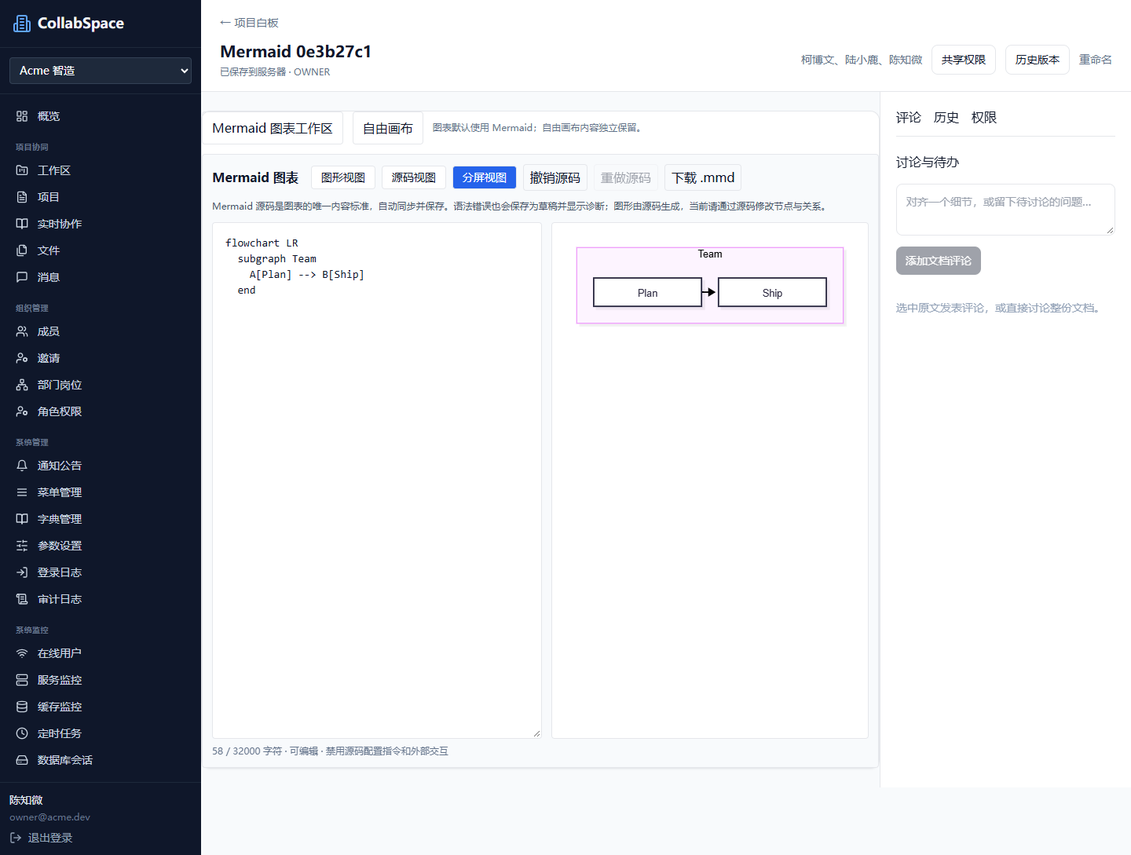
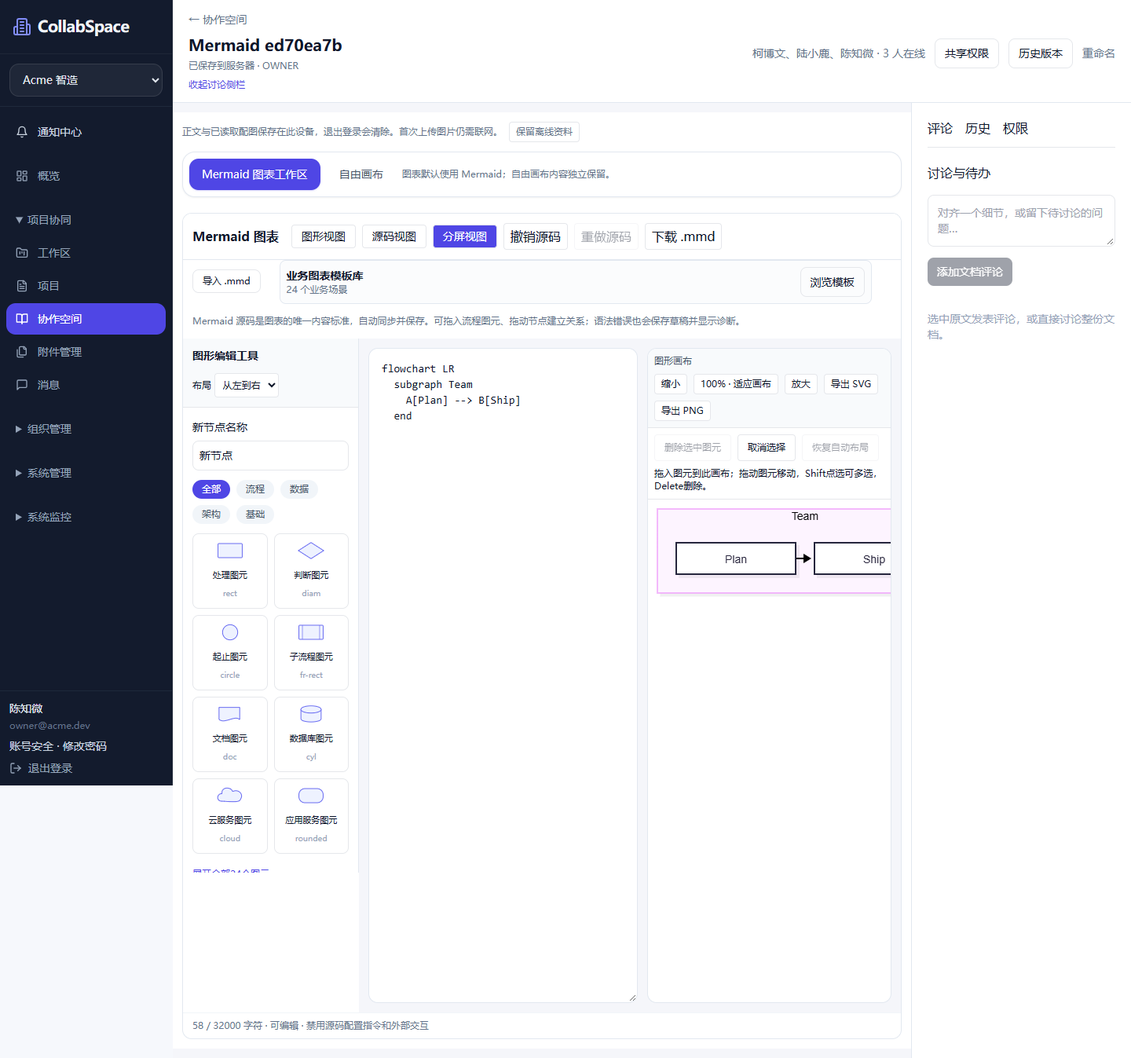
fix: guard complex Mermaid positioning and recover automatic layout

diff --git a/apps/web/src/components/boards/MermaidPreview.tsx b/apps/web/src/components/boards/MermaidPreview.tsx
@@ -2,7 +2,7 @@
 import {exportDiagram} from '@/lib/diagram-export';
 import {flowSvgLayout,type CanvasNode} from '@/lib/mermaid-svg-layout';
 import {addFlowNode,deleteFlowNodes,isFlowSource} from '@/lib/mermaid-edit';
-import {positionNode} from '@/lib/mermaid-position';
+import {positionNode,removeNodePositions,nodePositions} from '@/lib/mermaid-position';
 import type {DiagramShape} from '@/lib/diagram-catalog';
 import {useEffect,useState,useRef} from "react";
 let renderQueue: Promise<unknown> = Promise.resolve();
@@ -13,14 +13,14 @@ export function MermaidPreview({source,writable=false,commit,selectedIds=[],onSe
  const [canvas,setCanvas]=useState<{nodes:CanvasNode[];width:number;height:number}>({nodes:[],width:1000,height:800}),[actionError,setActionError]=useState('');
  const viewport=useRef<HTMLDivElement>(null),drag=useRef<{id:string;x:number;y:number;px:number;py:number;source:string;left:number;top:number}>();
  const interactive=!!commit&&(!source.trim()||isFlowSource(source));
- const mutate=(before:string,next:string)=>{try{if(!writable)throw Error('当前文档只读。');commit?.(before,next);setActionError('');}catch(e){setActionError((e as Error).message);}};
+ const mutate=(before:string,next:string)=>{try{if(!writable)throw Error('当前文档只读。');commit?.(before,next);setActionError('');return true;}catch(e){setActionError((e as Error).message);return false;}};
  const remove=()=>{try{const next=deleteFlowNodes(source,selectedIds);mutate(source,next);onSelect?.([]);}catch(e){setActionError((e as Error).message);}};
   const [html, setHtml] = useState("");
   const [error, setError] = useState("");
   const [rendered,setRendered]=useState<{source:string;svg:string}|null>(null),[zoom,setZoom]=useState(100),[exportError,setExportError]=useState(""),[exporting,setExporting]=useState(false);
   useEffect(() => {
     let alive = true;
-    setHtml("");setRendered(null);setExportError("");
+    setHtml("");setRendered(null);setExportError("");setCanvas(c=>({...c,nodes:[]}));
     setError("");
     const timer = setTimeout(() => {
       renderQueue = renderQueue.catch(() => {}).then(async () => {
@@ -52,13 +52,13 @@ export function MermaidPreview({source,writable=false,commit,selectedIds=[],onSe
   }, [source]);
   return <div className="min-w-0 flex-1 overflow-hidden rounded-xl border border-slate-200 bg-white" aria-label="Mermaid 图形预览">
     <div className="flex flex-wrap items-center justify-between gap-2 border-b bg-slate-50 p-2 text-xs"><span className="font-medium text-slate-600">{interactive?'图形画布':'画布预览'}</span><div className="flex flex-wrap gap-2"><button className="rounded border bg-white px-2 py-1" disabled={zoom<=50} onClick={()=>setZoom(z=>Math.max(50,z-25))}>缩小</button><button className="rounded border bg-white px-2 py-1" onClick={()=>setZoom(Math.max(25,Math.min(100,Math.floor((viewport.current?.clientWidth||canvas.width)/canvas.width*100))))}>{zoom}% · 适应画布</button><button className="rounded border bg-white px-2 py-1" disabled={zoom>=200} onClick={()=>setZoom(z=>Math.min(200,z+25))}>放大</button>{(['svg','png'] as const).map(format=><button key={format} disabled={!rendered||rendered.source!==source||exporting} className="rounded border bg-white px-2 py-1 disabled:opacity-40" onClick={async()=>{if(!rendered||rendered.source!==source)return;setExporting(true);setExportError('');try{await exportDiagram(rendered.svg,format)}catch(e){setExportError((e as Error).message)}finally{setExporting(false)}}}>导出 {format.toUpperCase()}</button>)}</div></div>
-    {interactive&&<div className="flex flex-wrap gap-2 border-b p-2 text-xs"><button type="button" disabled={!writable||!selectedIds.length} className="rounded border px-3 py-2 disabled:opacity-40" onClick={remove}>删除选中图元</button><button type="button" className="rounded border px-3 py-2" onClick={()=>onSelect?.([])}>取消选择</button><span>拖入图元到此画布；拖动图元移动，Shift点选可多选，Delete删除。</span></div>}
+    {interactive&&<div className="flex flex-wrap gap-2 border-b p-2 text-xs"><button type="button" disabled={!writable||!selectedIds.length} className="rounded border px-3 py-2 disabled:opacity-40" onClick={remove}>删除选中图元</button><button type="button" className="rounded border px-3 py-2" onClick={()=>onSelect?.([])}>取消选择</button><button type="button" disabled={!writable||!source.includes('%% collab-position ')} className="rounded border px-3 py-2 disabled:opacity-40" onClick={()=>mutate(source,removeNodePositions(source,new Set(Object.keys(nodePositions(source)))))}>恢复自动布局</button><span>拖入图元到此画布；拖动图元移动，Shift点选可多选，Delete删除。</span></div>}
     {actionError&&<p role="alert" className="p-2 text-sm text-red-700">{actionError}</p>}
     {exportError&&<p role="alert" className="p-2 text-sm text-red-700">{exportError}</p>}
     {error ? <pre role="alert" className="whitespace-pre-wrap break-words p-4 text-sm text-red-700">{error}</pre> :
       ((html && rendered?.source===source)||(interactive&&!source.trim())) ? <div ref={viewport} className="h-[640px] overflow-auto"><div aria-label="Mermaid 图形画布" tabIndex={interactive?0:undefined} className="relative outline-none" style={interactive?{width:canvas.width*zoom/100,height:canvas.height*zoom/100}:{width:`${zoom}%`,minWidth:300,height:640*zoom/100}} onKeyDown={e=>{if(interactive&&writable&&selectedIds.length&&(e.key==='Delete'||e.key==='Backspace')&&e.target===e.currentTarget){e.preventDefault();remove();}}} onDragOver={e=>{if(interactive&&writable)e.preventDefault();}} onDrop={e=>{e.preventDefault();if(!interactive||!writable)return;const kind=e.dataTransfer.getData('application/x-collab-mermaid');if(!kind)return;const box=e.currentTarget.getBoundingClientRect(),id='N'+crypto.randomUUID().replaceAll('-','').slice(0,12);try{const added=addFlowNode(source,e.dataTransfer.getData('application/x-collab-label')||'新节点',kind as DiagramShape,id);mutate(source,positionNode(added,id,Math.max(20,(e.clientX-box.left)*100/zoom),Math.max(20,(e.clientY-box.top)*100/zoom)));onSelect?.([id]);}catch(err){setActionError((err as Error).message);}}}>
        <iframe title="Mermaid 图表" sandbox="" referrerPolicy="no-referrer" srcDoc={html} style={{width:'100%',height:'100%',pointerEvents:interactive?'none':undefined}} className="border-0" />
-       {interactive&&canvas.nodes.map(n=><button key={n.id} type="button" aria-label={'画布图元 '+n.label} aria-pressed={selectedIds.includes(n.id)} disabled={!writable} className={'absolute -translate-x-1/2 -translate-y-1/2 rounded border-2 bg-transparent focus-visible:outline-indigo-500 '+(selectedIds.includes(n.id)?'border-indigo-500':'border-transparent hover:border-indigo-300')} style={{left:n.x*zoom/100,top:n.y*zoom/100,width:n.width*zoom/100,height:n.height*zoom/100,touchAction:'none',cursor:'move'}} onClick={e=>{if(e.shiftKey)onSelect?.(selectedIds.includes(n.id)?selectedIds.filter(id=>id!==n.id):[...selectedIds,n.id]);else onSelect?.([n.id]);}} onKeyDown={e=>{if(writable&&(e.key==='Delete'||e.key==='Backspace')){e.preventDefault();e.stopPropagation();try{mutate(source,deleteFlowNodes(source,selectedIds.includes(n.id)?selectedIds:[n.id]));onSelect?.([]);}catch(err){setActionError((err as Error).message);}}}} onPointerDown={e=>{if(!writable)return;if(!e.shiftKey&&!selectedIds.includes(n.id))onSelect?.([n.id]);const box=e.currentTarget.parentElement!.getBoundingClientRect();drag.current={id:n.id,x:n.x,y:n.y,px:e.clientX,py:e.clientY,source,left:box.left,top:box.top};e.currentTarget.setPointerCapture(e.pointerId);}} onPointerMove={e=>{const d=drag.current;if(!d||d.id!==n.id)return;e.currentTarget.style.left=`${d.x*zoom/100+e.clientX-d.px}px`;e.currentTarget.style.top=`${d.y*zoom/100+e.clientY-d.py}px`;}} onPointerCancel={()=>{drag.current=undefined;}} onPointerUp={e=>{const d=drag.current;drag.current=undefined;if(!d||Math.hypot(e.clientX-d.px,e.clientY-d.py)<4)return;try{mutate(d.source,positionNode(d.source,d.id,Math.max(20,d.x+(e.clientX-d.px)*100/zoom),Math.max(20,d.y+(e.clientY-d.py)*100/zoom)));}catch(err){setActionError((err as Error).message);}}}/>)}
+       {interactive&&canvas.nodes.map(n=><button key={n.id} type="button" aria-label={'画布图元 '+n.label} aria-pressed={selectedIds.includes(n.id)} disabled={!writable} className={'absolute -translate-x-1/2 -translate-y-1/2 rounded border-2 bg-transparent focus-visible:outline-indigo-500 '+(selectedIds.includes(n.id)?'border-indigo-500':'border-transparent hover:border-indigo-300')} style={{left:n.x*zoom/100,top:n.y*zoom/100,width:n.width*zoom/100,height:n.height*zoom/100,touchAction:'none',cursor:'move'}} onClick={e=>{if(e.shiftKey)onSelect?.(selectedIds.includes(n.id)?selectedIds.filter(id=>id!==n.id):[...selectedIds,n.id]);else onSelect?.([n.id]);}} onKeyDown={e=>{if(writable&&(e.key==='Delete'||e.key==='Backspace')){e.preventDefault();e.stopPropagation();try{mutate(source,deleteFlowNodes(source,selectedIds.includes(n.id)?selectedIds:[n.id]));onSelect?.([]);}catch(err){setActionError((err as Error).message);}}}} onPointerDown={e=>{if(!writable)return;if(!e.shiftKey&&!selectedIds.includes(n.id))onSelect?.([n.id]);const box=e.currentTarget.parentElement!.getBoundingClientRect();drag.current={id:n.id,x:n.x,y:n.y,px:e.clientX,py:e.clientY,source,left:box.left,top:box.top};e.currentTarget.setPointerCapture(e.pointerId);}} onPointerMove={e=>{const d=drag.current;if(!d||d.id!==n.id)return;e.currentTarget.style.left=`${d.x*zoom/100+e.clientX-d.px}px`;e.currentTarget.style.top=`${d.y*zoom/100+e.clientY-d.py}px`;}} onPointerCancel={e=>{drag.current=undefined;e.currentTarget.style.left=`${n.x*zoom/100}px`;e.currentTarget.style.top=`${n.y*zoom/100}px`;}} onPointerUp={e=>{const d=drag.current;drag.current=undefined;if(!d||Math.hypot(e.clientX-d.px,e.clientY-d.py)<4)return;try{mutate(d.source,positionNode(d.source,d.id,Math.max(20,d.x+(e.clientX-d.px)*100/zoom),Math.max(20,d.y+(e.clientY-d.py)*100/zoom)));}catch(err){e.currentTarget.style.left=`${n.x*zoom/100}px`;e.currentTarget.style.top=`${n.y*zoom/100}px`;setActionError((err as Error).message);}}}/>)}
       </div></div> :
       <p className="p-6 text-sm text-slate-500">{source.trim() ? "正在渲染 Mermaid…" : "输入 Mermaid 源码或选择模板，即可生成图表。"}</p>}
   </div>;

diff --git a/apps/web/src/components/boards/MermaidComposer.tsx b/apps/web/src/components/boards/MermaidComposer.tsx
@@ -19,12 +19,12 @@ export default function MermaidComposer({source,writable,commit,selectedId,onSel
    <div className="my-3 grid gap-2 grid-cols-4 lg:grid-cols-2">{diagramShapes.filter(s=>mind?s.key==='process':(group==='全部'||s.group===group)&&(expanded||['process','decision','start','subprocess','document','database','cloud','service'].includes(s.key))).map(s=><button key={s.key} aria-label={mind?'子主题':s.name+'图元'} disabled={!writable} draggable={writable} onDragStart={e=>{e.dataTransfer.setData('application/x-collab-mermaid',s.key);e.dataTransfer.setData('application/x-collab-label',label);}} onClick={()=>add(s.key)} className="rounded-lg border px-2 py-3 text-sm transition hover:border-indigo-300 hover:bg-indigo-50 disabled:opacity-40"><DiagramGlyph kind={s.key}/><span className="block font-medium">{mind?'子主题':s.name+'图元'}</span><span className="mt-1 block text-[10px] text-slate-400">{mind?'mindmap':s.shape}</span></button>)}</div>
    {!mind&&<button className="mb-3 text-xs font-medium text-indigo-600" onClick={()=>{setExpanded(v=>!v);setGroup('全部')}}>{expanded?'收起图元库':'展开全部24个图元'}</button>}
    {!mind&&<div className="mb-3 flex flex-wrap items-center gap-2 rounded-lg bg-slate-50 p-2 text-xs"><button aria-pressed={mode==='select'} onClick={()=>{setMode('select');setFrom('')}} className={`rounded border px-2 py-1 ${mode==='select'?'bg-indigo-100':''}`}>选择与属性</button><button aria-pressed={mode==='connect'} onClick={()=>{setMode('connect');setFrom('')}} className={`rounded border px-2 py-1 ${mode==='connect'?'bg-indigo-100':''}`}>依次点选连线</button><select aria-label="连线样式" disabled={!writable} value={edge} onChange={e=>setEdge(e.target.value as typeof edge)} className="rounded border p-1"><option value="arrow">实线箭头</option><option value="line">无箭头</option><option value="dashed">虚线箭头</option><option value="bold">粗箭头</option><option value="both">双向箭头</option></select><input aria-label="连线标签" placeholder="连线标签，例如：通过 / 失败" disabled={!writable} maxLength={80} value={edgeLabel} onChange={e=>setEdgeLabel(e.target.value)} className="rounded border p-1"/></div>}
-   <div aria-label="Mermaid 图元放置区" className="flex max-h-44 min-h-24 flex-wrap gap-2 overflow-auto rounded-xl border-2 border-dashed border-slate-200 bg-slate-50/60 p-3" onDragOver={e=>{if(writable)e.preventDefault();}} onDrop={e=>{e.preventDefault();if(!writable)return;const kind=e.dataTransfer.getData('application/x-collab-mermaid');if(diagramShapes.some(s=>s.key===kind))add(kind as DiagramShape);}}>
-    {!nodes.length&&<span className="text-sm text-slate-500">拖入图元，或点击上方图元开始；也可从业务模板开始。</span>}
-    {nodes.map(n=><button key={n.id} disabled={!writable} draggable={writable} aria-label={`${mind?'思维主题':'流程节点'} ${n.label}`} onDragStart={e=>{e.stopPropagation();e.dataTransfer.setData('application/x-collab-node',n.id);}} onDragOver={e=>{if(writable)e.preventDefault();}} onDrop={e=>{e.preventDefault();e.stopPropagation();if(!writable)return;const start=e.dataTransfer.getData('application/x-collab-node');if(start)connect(start,n.id);}} onClick={()=>{setSelected(n.id);onSelect?.(n.id);setRename(n.label);if(mode==='connect'&&!mind){if(from){connect(from,n.id);setFrom('')}else setFrom(n.id)}}} className={`rounded-lg border px-4 py-2 text-sm ${selected===n.id||from===n.id?'border-indigo-400 bg-indigo-50':'bg-white'}`}>{n.label}<span className="block text-[10px] text-slate-400">{n.id}</span></button>)}
+   <div aria-label="Mermaid 节点列表" className="flex max-h-44 min-h-24 flex-wrap gap-2 overflow-auto rounded-xl border-2 border-dashed border-slate-200 bg-slate-50/60 p-3" onDragOver={e=>{if(writable)e.preventDefault();}} onDrop={e=>{e.preventDefault();if(!writable)return;const kind=e.dataTransfer.getData('application/x-collab-mermaid');if(diagramShapes.some(s=>s.key===kind))add(kind as DiagramShape);}}>
+    {!nodes.length&&<span className="text-sm text-slate-500">点击图元，或拖到右侧实际画布开始。</span>}
+    {nodes.map(n=><button key={n.id} disabled={!writable} draggable={writable} aria-label={`${mind?'思维主题':'流程节点'} ${n.label}`} onDragStart={e=>{e.stopPropagation();e.dataTransfer.setData('application/x-collab-node',n.id);}} onDragOver={e=>{if(writable)e.preventDefault();}} onDrop={e=>{e.preventDefault();e.stopPropagation();if(!writable)return;const start=e.dataTransfer.getData('application/x-collab-node');if(start)connect(start,n.id);else{const kind=e.dataTransfer.getData('application/x-collab-mermaid');if(diagramShapes.some(s=>s.key===kind))add(kind as DiagramShape);}}} onClick={()=>{setSelected(n.id);onSelect?.(n.id);setRename(n.label);if(mode==='connect'&&!mind){if(from){connect(from,n.id);setFrom('')}else setFrom(n.id)}}} className={`rounded-lg border px-4 py-2 text-sm ${selected===n.id||from===n.id?'border-indigo-400 bg-indigo-50':'bg-white'}`}>{n.label}<span className="block text-[10px] text-slate-400">{n.id}</span></button>)}
    </div>
    {!mind&&nodes.some(n=>n.id===selected)&&<div className="mt-3 flex flex-wrap items-center gap-2 rounded-xl border border-indigo-100 bg-indigo-50/50 p-3 text-sm"><span className="font-medium">节点 {selected}</span><input aria-label="选中节点名称" disabled={!writable} value={rename} maxLength={100} onChange={e=>setRename(e.target.value)} className="rounded border bg-white p-1.5"/><button disabled={!writable} className="rounded border bg-white px-2 py-1.5" onClick={()=>run(()=>renameFlowNode(source,selected,rename))}>更新节点名称</button><button disabled={!writable} className="rounded border bg-white px-2 py-1.5" onClick={()=>run(()=>duplicateFlowNode(source,selected,'N'+crypto.randomUUID().replaceAll('-','').slice(0,12)))}>复制节点</button><button disabled={!writable} className="rounded border border-rose-200 bg-white px-2 py-1.5 text-rose-700" onClick={()=>run(()=>deleteFlowNode(source,selected))}>删除节点与简单连线</button>{(['indigo','teal','amber','rose','slate'] as const).map((c,i)=><button key={c} disabled={!writable} aria-label={'节点配色 '+['靛蓝','青绿','琥珀','玫瑰','灰蓝'][i]} className="rounded border bg-white px-2 py-1.5" onClick={()=>run(()=>colorFlowNode(source,selected,c))}>{['靛蓝','青绿','琥珀','玫瑰','灰蓝'][i]}</button>)}</div>}
-   <p className="mt-2 text-xs text-slate-500">节点互拖建立所选样式的连线；思维主题互拖改变父主题。在右侧实际画布拖入/移动图元；位置以协作注释保存。</p>
+   <p className="mt-2 text-xs text-slate-500">选择“依次点选连线”后依次点击节点建立关系；思维主题互拖改变父主题。在右侧实际画布拖入/移动图元；位置以协作注释保存。</p>
   </>}{error&&<p role="alert" className="mt-2 text-sm text-red-700">{error}</p>}</div>
  </div>;
 }

diff --git a/apps/web/src/components/boards/MermaidWorkspace.tsx b/apps/web/src/components/boards/MermaidWorkspace.tsx
@@ -94,9 +94,9 @@ export default function MermaidWorkspace({ provider, format = "mermaid",onSelect
       {(templateOpen||!source)&&<><input aria-label="搜索图表模板" placeholder="搜索场景，例如：审批、架构、排期" value={templateSearch} onChange={e=>setTemplateSearch(e.target.value)} className="my-3 w-full rounded-lg border p-2 text-sm"/><div className="grid gap-2 sm:grid-cols-3">{diagramTemplates.filter(t=>(t.name+t.category).includes(templateSearch)).slice(0,templateOpen?diagramTemplates.length:6).map(t=><button key={t.name} aria-label={t.name+'模板'} className="rounded-xl border border-slate-200 p-3 text-left hover:border-indigo-300 hover:bg-indigo-50" onClick={()=>{if(!text.length){edit(t.source);setTemplateError('');}else setPendingTemplate({before:text.toString(),after:t.source,name:t.name});}}><span className="block font-medium">{t.name}模板</span><span className="text-xs text-slate-500">{t.category}</span></button>)}</div></>}
       {pendingTemplate&&<div role="dialog" aria-label="确认替换图表" className="mt-3 rounded-lg border border-amber-300 bg-amber-50 p-3 text-sm"><p>将当前源码替换为“{pendingTemplate.name}”模板？已有内容会被替换，可使用撤销恢复。</p><div className="mt-2 flex gap-3"><button className="rounded border bg-white px-3 py-1" onClick={()=>{if(text.toString()!==pendingTemplate.before){setTemplateError('收到其他成员修改，请重新选择模板并核对最新内容。');setPendingTemplate(null);return;}edit(pendingTemplate.after);setPendingTemplate(null);setTemplateError('');}}>确认替换</button><button onClick={()=>setPendingTemplate(null)}>取消</button></div></div>}{templateError&&<p role="alert" className="mt-2 text-sm text-red-700">{templateError}</p>}
     </div>}
-    <p className="px-3 pb-3 text-xs leading-5 text-slate-500">{markdown?'原生 Markdown 源码为内容标准，自动协作保存；支持GFM与Mermaid代码块，外部图片和原始HTML不执行。':'Mermaid 源码是图表的唯一内容标准，自动同步并保存。可拖入流程图元、拖动节点建立关系；语法错误也会保存草稿并显示诊断。'}</p>
+    <p className="px-3 pb-3 text-xs leading-5 text-slate-500">{markdown?'原生 Markdown 源码为内容标准，自动协作保存；支持GFM与Mermaid代码块，外部图片和原始HTML不执行。':'Mermaid 源码是图表的唯一内容标准，自动同步并保存。可把流程图元拖入实际画布并移动定位；位置随源码同步，语法错误会保留草稿并显示诊断。'}</p>
     <div className={markdown?"":"grid min-w-0 items-start lg:grid-cols-[224px_minmax(0,1fr)]"}>
-    {!markdown && <MermaidComposer selectedId={canvasSelection[0]||''} onSelect={id=>setCanvasSelection([id])} source={source} writable={provider.writable} commit={(before,after)=>{if(text.toString()!==before)throw Error('收到远端修改，请基于最新图表重试。');edit(after);}} />}
+    {!markdown && <MermaidComposer selectedId={canvasSelection[0]||''} onSelect={id=>setCanvasSelection([id])} source={source} writable={provider.writable} commit={(before,after)=>{if(text.toString()!==before)throw Error('收到远端修改，请基于最新图表重试。');if(after.length>limit)throw Error('源码超过32000字符，请精简后再编辑图元。');edit(after);}} />}
     <div className="flex min-w-0 flex-col gap-3 bg-[#f5f6fa] p-3 xl:flex-row">
       {view !== "graph" && <textarea ref={editor} aria-label={markdown?"协作 Markdown 源码":"协作 Mermaid 源码"} spellCheck={false} readOnly={!provider.writable} maxLength={limit} value={source}
         onSelect={e=>{const el=e.currentTarget,a=to64(Y.encodeRelativePosition(Y.createRelativePositionFromTypeIndex(text,el.selectionStart))),b=to64(Y.encodeRelativePosition(Y.createRelativePositionFromTypeIndex(text,el.selectionEnd)));provider.selection({anchor:a,head:b});onSelection?.(el.selectionStart===el.selectionEnd?null:{quote:text.toString().slice(el.selectionStart,el.selectionEnd).slice(0,1000),anchor:{start:a,end:b}});}}
@@ -112,7 +112,7 @@ export default function MermaidWorkspace({ provider, format = "mermaid",onSelect
           if (composing.current) setSource(value); else edit(value);
         }}
         className="min-h-[640px] w-full min-w-0 flex-1 rounded-xl border border-slate-200 bg-white p-4 font-mono text-sm focus:outline-none focus:ring-2 focus:ring-indigo-300" />}
-      {view !== "source" && (markdown?<MarkdownPreview source={source}/>:<MermaidPreview source={source} writable={provider.writable} selectedIds={canvasSelection} onSelect={setCanvasSelection} commit={(before,after)=>{if(text.toString()!==before)throw Error('收到远端修改，请基于最新图表重试。');edit(after);}} />)}
+      {view !== "source" && (markdown?<MarkdownPreview source={source}/>:<MermaidPreview source={source} writable={provider.writable} selectedIds={canvasSelection} onSelect={setCanvasSelection} commit={(before,after)=>{if(text.toString()!==before)throw Error('收到远端修改，请基于最新图表重试。');if(after.length>limit)throw Error('源码超过32000字符，请精简后再编辑图元。');edit(after);}} />)}
     </div>
     </div>
     {markdown&&<div aria-label="协作者源码位置" className="my-2 flex flex-wrap gap-2 text-xs text-slate-500">{provider.members.filter(m=>m.selection).map(m=>{try{const at=Y.createAbsolutePositionFromRelativePosition(Y.decodeRelativePosition(from64(m.selection!.anchor)),provider.doc);if(!at||at.type!==text)return null;const before=source.slice(0,at.index),line=before.split('\n').length,column=at.index-before.lastIndexOf('\n');return <span key={m.sessionId}>{m.name} · {line}行{column}列</span>;}catch{return null;}})}</div>}

diff --git a/apps/web/src/lib/mermaid-svg-layout.ts b/apps/web/src/lib/mermaid-svg-layout.ts
@@ -1,9 +1,10 @@
 import {flowNodes,isFlowSource} from './mermaid-edit';
-import {nodePositions} from './mermaid-position';
+import {nodePositions,assertPositionable} from './mermaid-position';
 export type CanvasNode={id:string;label:string;x:number;y:number;width:number;height:number;diamond:boolean};
 /** Inspect generated SVG as inert XML; never execute or mount it in the parent document. */
 export function flowSvgLayout(source:string,markup:string){
  const xml=new DOMParser().parseFromString(markup,'image/svg+xml'),svg=xml.documentElement,positions=nodePositions(source);
+ if(Object.keys(positions).length)assertPositionable(source);
  const original=svg.getAttribute('viewBox')?.split(/[ ,]+/).map(Number)||[0,0,1000,700];
  const translate=(el:Element|null)=>{let x=0,y=0;for(let e=el;e&&e!==svg;e=e.parentElement){for(const m of (e.getAttribute('transform')||'').matchAll(/translate\(\s*([-\d.]+)[ ,]+([-\d.]+)\s*\)/g)){x+=+m[1];y+=+m[2];}}return{x,y};};
  const nodes:CanvasNode[]=[];if(isFlowSource(source))for(const n of flowNodes(source)){
@@ -23,8 +24,11 @@ export function flowSvgLayout(source:string,markup:string){
   const parent=translate(path.parentElement),dx=b.x-a.x,dy=b.y-a.y;
   const boundary=(node:CanvasNode)=>node.diamond?1/(Math.abs(dx)/(node.width/2)+Math.abs(dy)/(node.height/2)):Math.min(dx?node.width/2/Math.abs(dx):Infinity,dy?node.height/2/Math.abs(dy):Infinity);
   const sa=boundary(a),sb=boundary(b);if(!Number.isFinite(sa)||!Number.isFinite(sb))continue;
-  const start={x:a.x-parent.x+dx*sa,y:a.y-parent.y+dy*sa},end={x:b.x-parent.x-dx*sb,y:b.y-parent.y-dy*sb};path.setAttribute('d',`M${start.x},${start.y} L${end.x},${end.y}`);
-  const label=[...svg.querySelectorAll('[data-id]')].find(e=>e.getAttribute('data-id')===path.id);if(label&&label!==path){const p=translate(label.parentElement);label.setAttribute('transform',`translate(${(a.x+b.x)/2-p.x},${(a.y+b.y)/2-p.y})`);}
+  const start={x:a.x-parent.x+dx*sa,y:a.y-parent.y+dy*sa},end={x:b.x-parent.x-dx*sb,y:b.y-parent.y-dy*sb};
+  const reverse=[...svg.querySelectorAll('.edgePaths path')].some(e=>e!==path&&(e.id.startsWith(`L_${b.id}_${a.id}_`)||e.id.includes(`-L_${b.id}_${a.id}_`)));
+  const length=Math.hypot(dx,dy)||1,control={x:(start.x+end.x)/2-dy/length*50,y:(start.y+end.y)/2+dx/length*50};
+  path.setAttribute('d',reverse?`M${start.x},${start.y} Q${control.x},${control.y} ${end.x},${end.y}`:`M${start.x},${start.y} L${end.x},${end.y}`);
+  const labelContent=[...svg.querySelectorAll('.edgeLabels [data-id]')].find(e=>e.getAttribute('data-id')===path.id||path.id.endsWith('-'+e.getAttribute('data-id'))),label=labelContent?.closest('.edgeLabel');if(label){const p=translate(label.parentElement),x=reverse?(start.x+end.x)/4+control.x/2+parent.x:(a.x+b.x)/2,y=reverse?(start.y+end.y)/4+control.y/2+parent.y:(a.y+b.y)/2;label.setAttribute('transform',`translate(${x-p.x},${y-p.y})`);}
  }
  const width=Math.max(1000,original[0]+original[2]+40,...nodes.map(n=>n.x+200)),height=Math.max(800,original[1]+original[3]+40,...nodes.map(n=>n.y+140));
  if(nodes.length){svg.setAttribute('viewBox',`0 0 ${width} ${height}`);svg.setAttribute('width',String(width));svg.setAttribute('height',String(height));svg.removeAttribute('style');}

diff --git a/apps/web/src/lib/mermaid-position.ts b/apps/web/src/lib/mermaid-position.ts
@@ -3,6 +3,15 @@ const marker=/^\s*%% collab-position ([A-Za-z][\w]*) (\d+(?:\.\d+)?) (\d+(?:\.\d
 export function nodePositions(source:string){const out:Record<string,{x:number;y:number}>={};for(const line of source.split('\n')){const m=marker.exec(line);if(m&&+m[2]<=8000&&+m[3]<=8000)out[m[1]]={x:+m[2],y:+m[3]};}return out;}
 export function positionNode(source:string,id:string,x:number,y:number){
  if(!/^[A-Za-z][\w]*$/.test(id)||!Number.isFinite(x)||!Number.isFinite(y)||x<20||y<20||x>8000||y>8000)throw Error('图元位置超出画布范围。');
+ assertPositionable(source);
  const lines=source.split('\n').filter(line=>marker.exec(line)?.[1]!==id);return lines.join('\n')+`\n%% collab-position ${id} ${Math.round(x)} ${Math.round(y)}`;
+}
+/** Refuse geometries not yet safely rerouted; do not silently detach edges or groups. */
+export function assertPositionable(source:string){
+ if(/^\s*subgraph\b/m.test(source)||/\b[A-Za-z]\w*@\s*(?:--|==|-\.|<)/.test(source))throw Error('此图含分组或自定义连线，自由定位暂不支持；源码未修改。');
+ const plain=source.split('\n').filter(line=>!/^\s*%%/.test(line)).join('\n').replace(/@\{[^\n}]*\}|\[(?:"[^"\n]*"|[^\]\n]*)\]|\(\((?:"[^"\n]*"|[^)\n]*)\)\)|\{(?:"[^"\n]*"|[^}\n]*)\}/g,'');
+ const pairs=new Set<string>();for(const e of plain.matchAll(/(?=\b([A-Za-z]\w*)\s*(?:<-->|-->|---|-\.->|==>)(?:\|[^|\n]*\|)?\s*([A-Za-z]\w*))/g)){
+  const pair=[e[1],e[2]].join(':');if(e[1]===e[2]||pairs.has(pair))throw Error('此图含自环或平行连线，自由定位暂不支持；源码未修改。');pairs.add(pair);
+ }
 }
 export function removeNodePositions(source:string,ids:Set<string>){return source.split('\n').filter(line=>{const m=marker.exec(line);return !m||!ids.has(m[1]);}).join('\n');}

diff --git a/docs/collaboration/MERMAID-POSITION.md b/docs/collaboration/MERMAID-POSITION.md
@@ -1,0 +1,22 @@
+# Mermaid 图形编辑与定位
+
+2026-10-26，用户要求实际画布拖入图元、按位置移动、部分删除。对应P/BR/D/AT-MPOS，覆盖此前仅侧栏关系拖拽和自动布局的行为。发布成绩见[验收报告](../../evidence/collaboration/MERMAID-POSITION-2026-10-25.md)。
+
+## BR-MPOS / D-MPOS
+
+- 流程图在实际画布接受图元拖入；坐标按当前缩放换算，移动节点后共享、刷新和重新打开保持。侧栏用于图元库、节点属性和明确点选连线。
+- 单选、Shift多选、Delete/Backspace与删除按钮只移除选中节点及关联的受支持边，其余定义和边保留。复杂批量/引用语法安全拒绝，源码不变。
+- `%% collab-position ID x y`为本应用位置注释，不冒充Mermaid标准布局语法；外部渲染器忽略注释并自动布局。本应用导出SVG/PNG使用当前定位后的官方SVG，.mmd保留原源码和注释。
+- 恢复自动布局仅清理本应用位置注释。沿用Y.Text最小差量、UndoManager、持久化ACK、组织/文档ACL、离线和版本；没有数据库迁移或并行状态权威。
+- 无授权sandbox/CSP保持；父页只对官方SVG做惰性XML解析并在外层提供原生交互按钮，不在父页挂载SVG、不执行bindFunctions或放开iframe权限。
+- 常见流程矩形/菱形及新增标准图元可定位。普通有向边跟随，反向边分开走弧线并移动标签。自环、同向平行边、subgraph分组和自定义边ID暂时拒绝自由定位，错误明确且不改源码；已有此类源码继续用官方渲染和源码编辑。基础思维导图仍支持子树关系编辑；其他Mermaid类型不宣称自由几何编辑。
+
+## AT-MPOS
+
+1. 空画布和已有流程图拖入；50%缩放换算、移动、恢复自动布局、撤销/重做。
+2. 双编辑同步、刷新保持、Viewer按钮与服务端权限、源码/历史边界。
+3. 模板中间节点删除保留两侧和剩余边、多选删除、复杂引用拒绝。
+4. 连线箭头/路径/标签跟随；反向边不重叠；不支持结构不改变源图。
+5. 原图形/源码/分屏、24模板、导入、SVG/PNG导出与语法错误/安全拒绝回归。
+
+真实运行结果按报告分列，不把本地测试或候选构建当成正式发布。

diff --git a/docs/collaboration/MERMAID.md b/docs/collaboration/MERMAID.md
@@ -1,5 +1,7 @@
 # Mermaid 为白板图表的主要执行标准
 
+2026-10-26定位修复契约：见[实际画布交互](MERMAID-POSITION.md)。以最新验收报告的发布身份为准，保留官方渲染与源码权限边界。
+
 2026-10-25图形编辑修复（开发中、未上线）：实际画布拖入/移动、位置协作注释与模板节点部分删除，见[交接与剩余门槛](MERMAID-POSITION-HANDOFF.md)、[实际验收](../../evidence/collaboration/MERMAID-POSITION-2026-10-25.md)。此前仅自动布局的行为是本轮修复原因，不能把本地通过当作正式发布。
 
 2026-10-21 第二轮追加：受支持 Mermaid 流程图/基础思维导图拖拽直接修改共享源码；评论/版本提交后实时通知；账号/租户/文档隔离的离线配图；Google/GitHub 社交登录安全完善。最新契约和验收以 [ITERATION-2.md](ITERATION-2.md) 为准，配置见 [OAUTH-SETUP-MEMO.md](OAUTH-SETUP-MEMO.md)。历史未实现描述不覆盖本轮新增能力；任意语法/坐标回写、完整离线应用壳及企业SSO仍不宣称完成。

diff --git a/docs/collaboration/BUSINESS-DIAGRAMS.md b/docs/collaboration/BUSINESS-DIAGRAMS.md
@@ -1,5 +1,7 @@
 # 高频业务绘图 — 2026-10-22
 
+2026-10-26定位修复契约：见[实际画布交互](MERMAID-POSITION.md)。以最新验收报告的发布身份为准，保留官方渲染与源码权限边界。
+
 2026-10-25图形编辑修复（开发中、未上线）：实际画布拖入/移动、位置协作注释与模板节点部分删除，见[交接与剩余门槛](MERMAID-POSITION-HANDOFF.md)、[实际验收](../../evidence/collaboration/MERMAID-POSITION-2026-10-25.md)。此前仅自动布局的行为是本轮修复原因，不能把本地通过当作正式发布。
 
 参考：用户提供的 https://chatgpt.com/share/6ada26dc-f870-83e8-a543-d8828e314ebf 。已读公开分享正文；其中第三方工具的功能描述只是需求参考，不能当本项目验收。Mermaid仍是图表内容标准，自由画布保留独立旧模型。

diff --git a/docs/collaboration/REQUIREMENTS.md b/docs/collaboration/REQUIREMENTS.md
@@ -1,5 +1,7 @@
 # CollabSpace — 需求分析与产品决策
 
+2026-10-26定位修复契约：见[实际画布交互](MERMAID-POSITION.md)。以最新验收报告的发布身份为准，保留官方渲染与源码权限边界。
+
 2026-10-25图形编辑修复（开发中、未上线）：实际画布拖入/移动、位置协作注释与模板节点部分删除，见[交接与剩余门槛](MERMAID-POSITION-HANDOFF.md)、[实际验收](../../evidence/collaboration/MERMAID-POSITION-2026-10-25.md)。此前仅自动布局的行为是本轮修复原因，不能把本地通过当作正式发布。
 
 2026-10-25入口整理：操作区域按钮化、未提供功能的占位项移除，P/BR/D/AT-AUI见[功能入口规范](ACTION-UI.md)，范围和实际成绩见[验收记录](../../evidence/collaboration/ACTION-UI-2026-10-25.md)。

diff --git a/docs/collaboration/IMPLEMENTATION_PROMPT.md b/docs/collaboration/IMPLEMENTATION_PROMPT.md
@@ -1,5 +1,7 @@
 # 可直接交给开发 Agent 的 Prompt
 
+2026-10-26定位修复契约：见[实际画布交互](MERMAID-POSITION.md)。以最新验收报告的发布身份为准，保留官方渲染与源码权限边界。
+
 2026-10-25图形编辑修复（开发中、未上线）：实际画布拖入/移动、位置协作注释与模板节点部分删除，见[交接与剩余门槛](MERMAID-POSITION-HANDOFF.md)、[实际验收](../../evidence/collaboration/MERMAID-POSITION-2026-10-25.md)。此前仅自动布局的行为是本轮修复原因，不能把本地通过当作正式发布。
 
 2026-10-25入口整理：操作区域按钮化、未提供功能的占位项移除，P/BR/D/AT-AUI见[功能入口规范](ACTION-UI.md)，范围和实际成绩见[验收记录](../../evidence/collaboration/ACTION-UI-2026-10-25.md)。

diff --git a/docs/collaboration/DESIGN.md b/docs/collaboration/DESIGN.md
@@ -1,5 +1,7 @@
 # CollabSpace — 详细设计 v1
 
+2026-10-26定位修复契约：见[实际画布交互](MERMAID-POSITION.md)。以最新验收报告的发布身份为准，保留官方渲染与源码权限边界。
+
 2026-10-25图形编辑修复（开发中、未上线）：实际画布拖入/移动、位置协作注释与模板节点部分删除，见[交接与剩余门槛](MERMAID-POSITION-HANDOFF.md)、[实际验收](../../evidence/collaboration/MERMAID-POSITION-2026-10-25.md)。此前仅自动布局的行为是本轮修复原因，不能把本地通过当作正式发布。
 
 2026-10-25入口整理：操作区域按钮化、未提供功能的占位项移除，P/BR/D/AT-AUI见[功能入口规范](ACTION-UI.md)，范围和实际成绩见[验收记录](../../evidence/collaboration/ACTION-UI-2026-10-25.md)。
